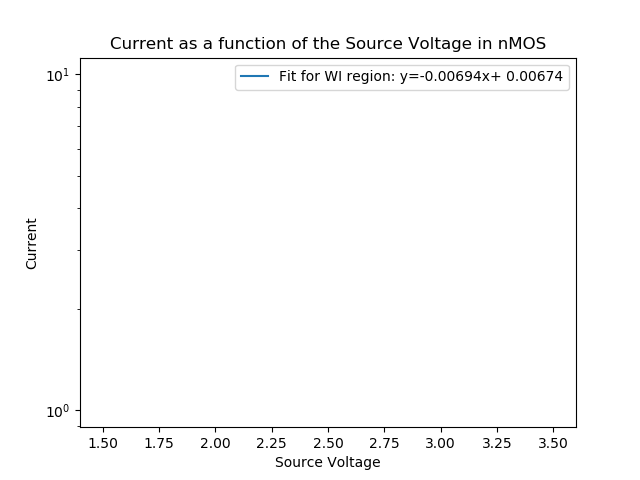
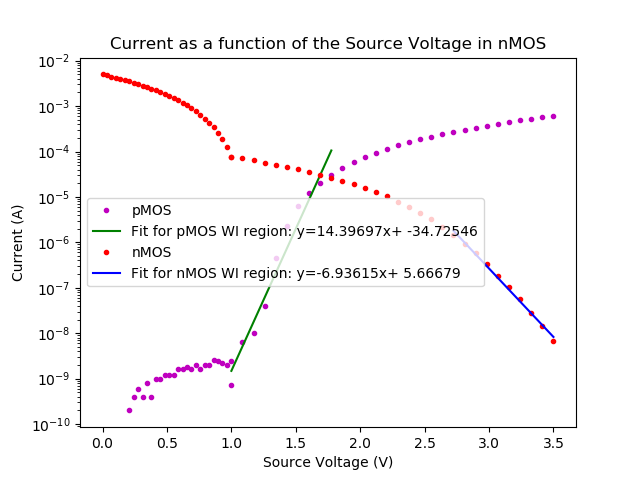
it

diff --git a/lab 5/exp2/nMossemilog.py b/lab 5/exp2/nMossemilog.py
@@ -1,6 +1,7 @@
 import sys
 sys.path.append('..')
 from linefit import linefit
+from scipy import stats
 #from ekvfit import ekvfit
 import numpy as np
 import math
@@ -22,19 +23,36 @@ for x in nIout:
     nV.append(float(nVin[i]))
     #pI.append(float(pIout[i])*-1)
     #pV.append(float(pVin[i]))
+    pI.append(float(pIout[i]))
+    pV.append(float(pVin[i]))
     i+=1
 title = "Current as a function of the Source Voltage in nMOS"
-yLabel = "Current"
-xLabel = "Source Voltage"
+yLabel = "Current (A)"
+xLabel = "Source Voltage (V)"
+pIlog = []
+for i, val in enumerate(pI):
+    pIlog.append(np.log(val))
+slope, intercept, r_value, p_value, std_err = stats.linregress(pV[30:40], pIlog[30:40])
 
-[first, last, mmax, bmax, Nmax]=linefit(np.array(nV),np.array(nI))
-x = np.linspace(1.5,3.5,2)
-y = mmax*x+bmax+.0018
-labely = "Fit for WI region: y="+str(round(mmax,5))+"x+ "+str(round(bmax,5)+.0018)
-#Data1 = plt.semilogy(nV, nI, 'ro', markersize=3)
+x = np.array(pV[30:40])
+y = np.exp(slope*x+intercept)
+
+nIlog = []
+for i, val in enumerate(nI):
+    nIlog.append(np.log(val))
+slope1, intercept1, r_value, p_value, std_err = stats.linregress(nV[50:60], nIlog[50:60])
+print(len(nV))
+x1 = np.array(nV[50:60])
+y1 = np.exp(slope1*x1+intercept1)
+
 print(x)
 print(y)
-Data2=plt.semilogy(x, y,b', label=labely)
+labely = "Fit for pMOS WI region: y="+str(round(slope,5))+"x+ "+str(round(intercept,5))
+Data1 = plt.semilogy(pV, pI, 'mo', markersize=3,label='pMOS')
+Data2=plt.semilogy(x, y,'g-', label=labely)
+Data1 = plt.semilogy(nV, nI, 'ro', markersize=3,label='nMOS')
+labely = "Fit for nMOS WI region: y="+str(round(slope1,5))+"x+ "+str(round(intercept1,5))
+Data2=plt.semilogy(x1, y1, 'b-', label=labely)
 plt.xlabel(xLabel)
 plt.ylabel(yLabel)
 plt.title(title)

diff --git a/lab 5/exp2/nmosloglog.py b/lab 5/exp2/nmosloglog.py
@@ -7,6 +7,7 @@ import math
 import matplotlib.pyplot as plt
 from scipy.optimize import curve_fit
 from scipy import stats
+from pmosloglog import pI,ge,gss,gsw as ppI,pge,pgss,pgsw
 pIout = open('nmosexp2/Iout.txt', 'r').read().split()
 pVin = open('nmosexp2/Vin.txt', 'r').read().split()
 pI=[]
@@ -60,6 +61,7 @@ y = mmax*x+bmax
 Data2=plt.loglog( pI[1:],ge, 'bo',label='Experimental')
 Data2=plt.loglog( pI[6:],gss, '-m',label='Strong Inversion Region Fit')
 Data2=plt.loglog( pI[6:],gsw, '-r',label='Weak Inversion Region Fit')
+
 #Data2=plt.loglog(gsp, pI[6:], 'go')
 #Data2=plt.loglog(gwp, pI[6:], 'mo')
 plt.xlabel(xLabel)
